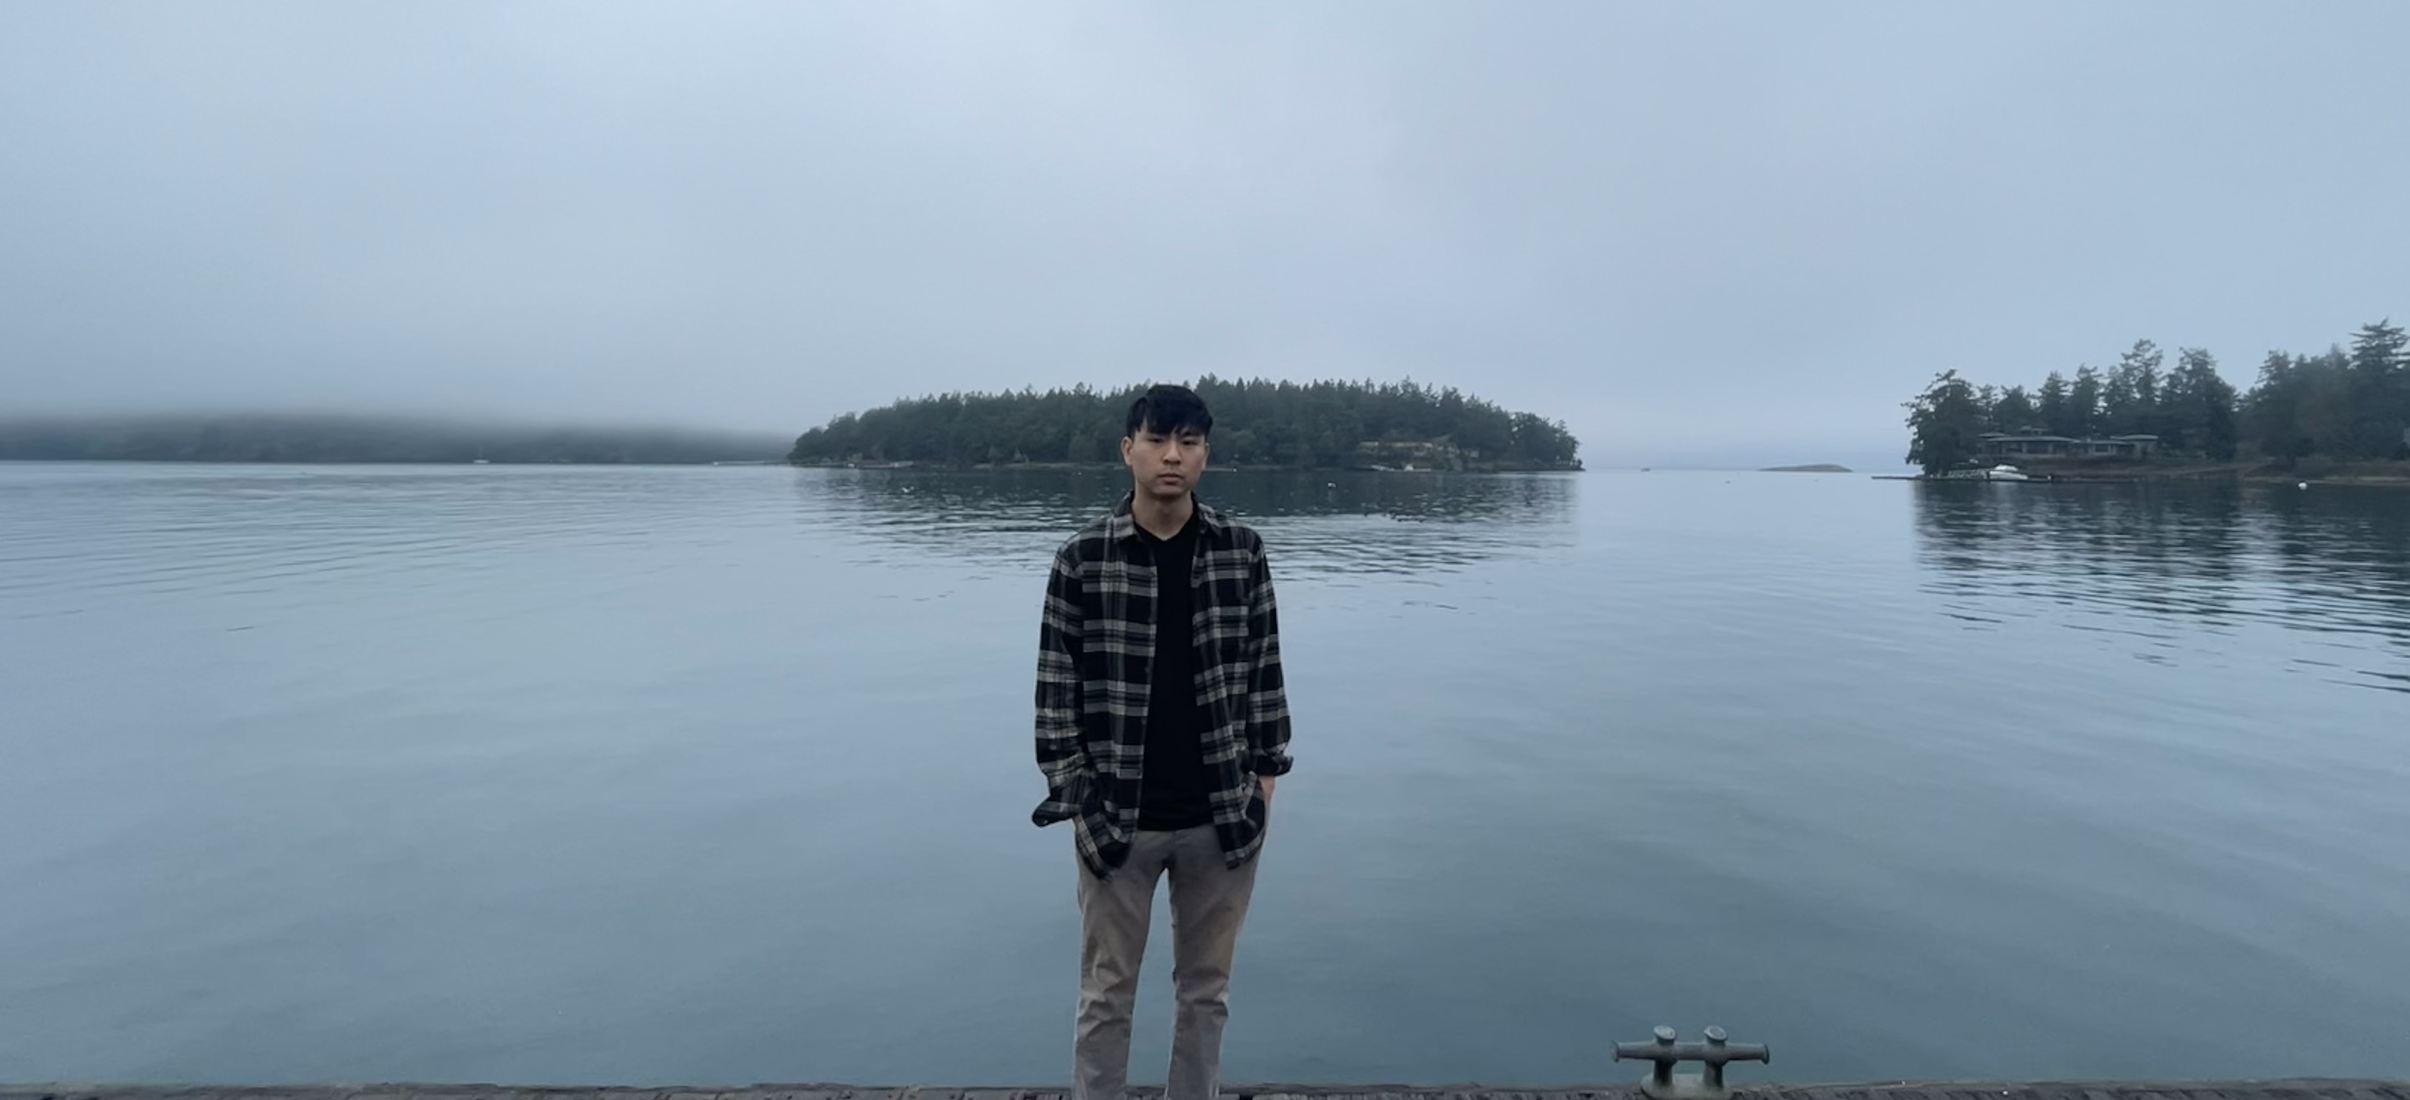
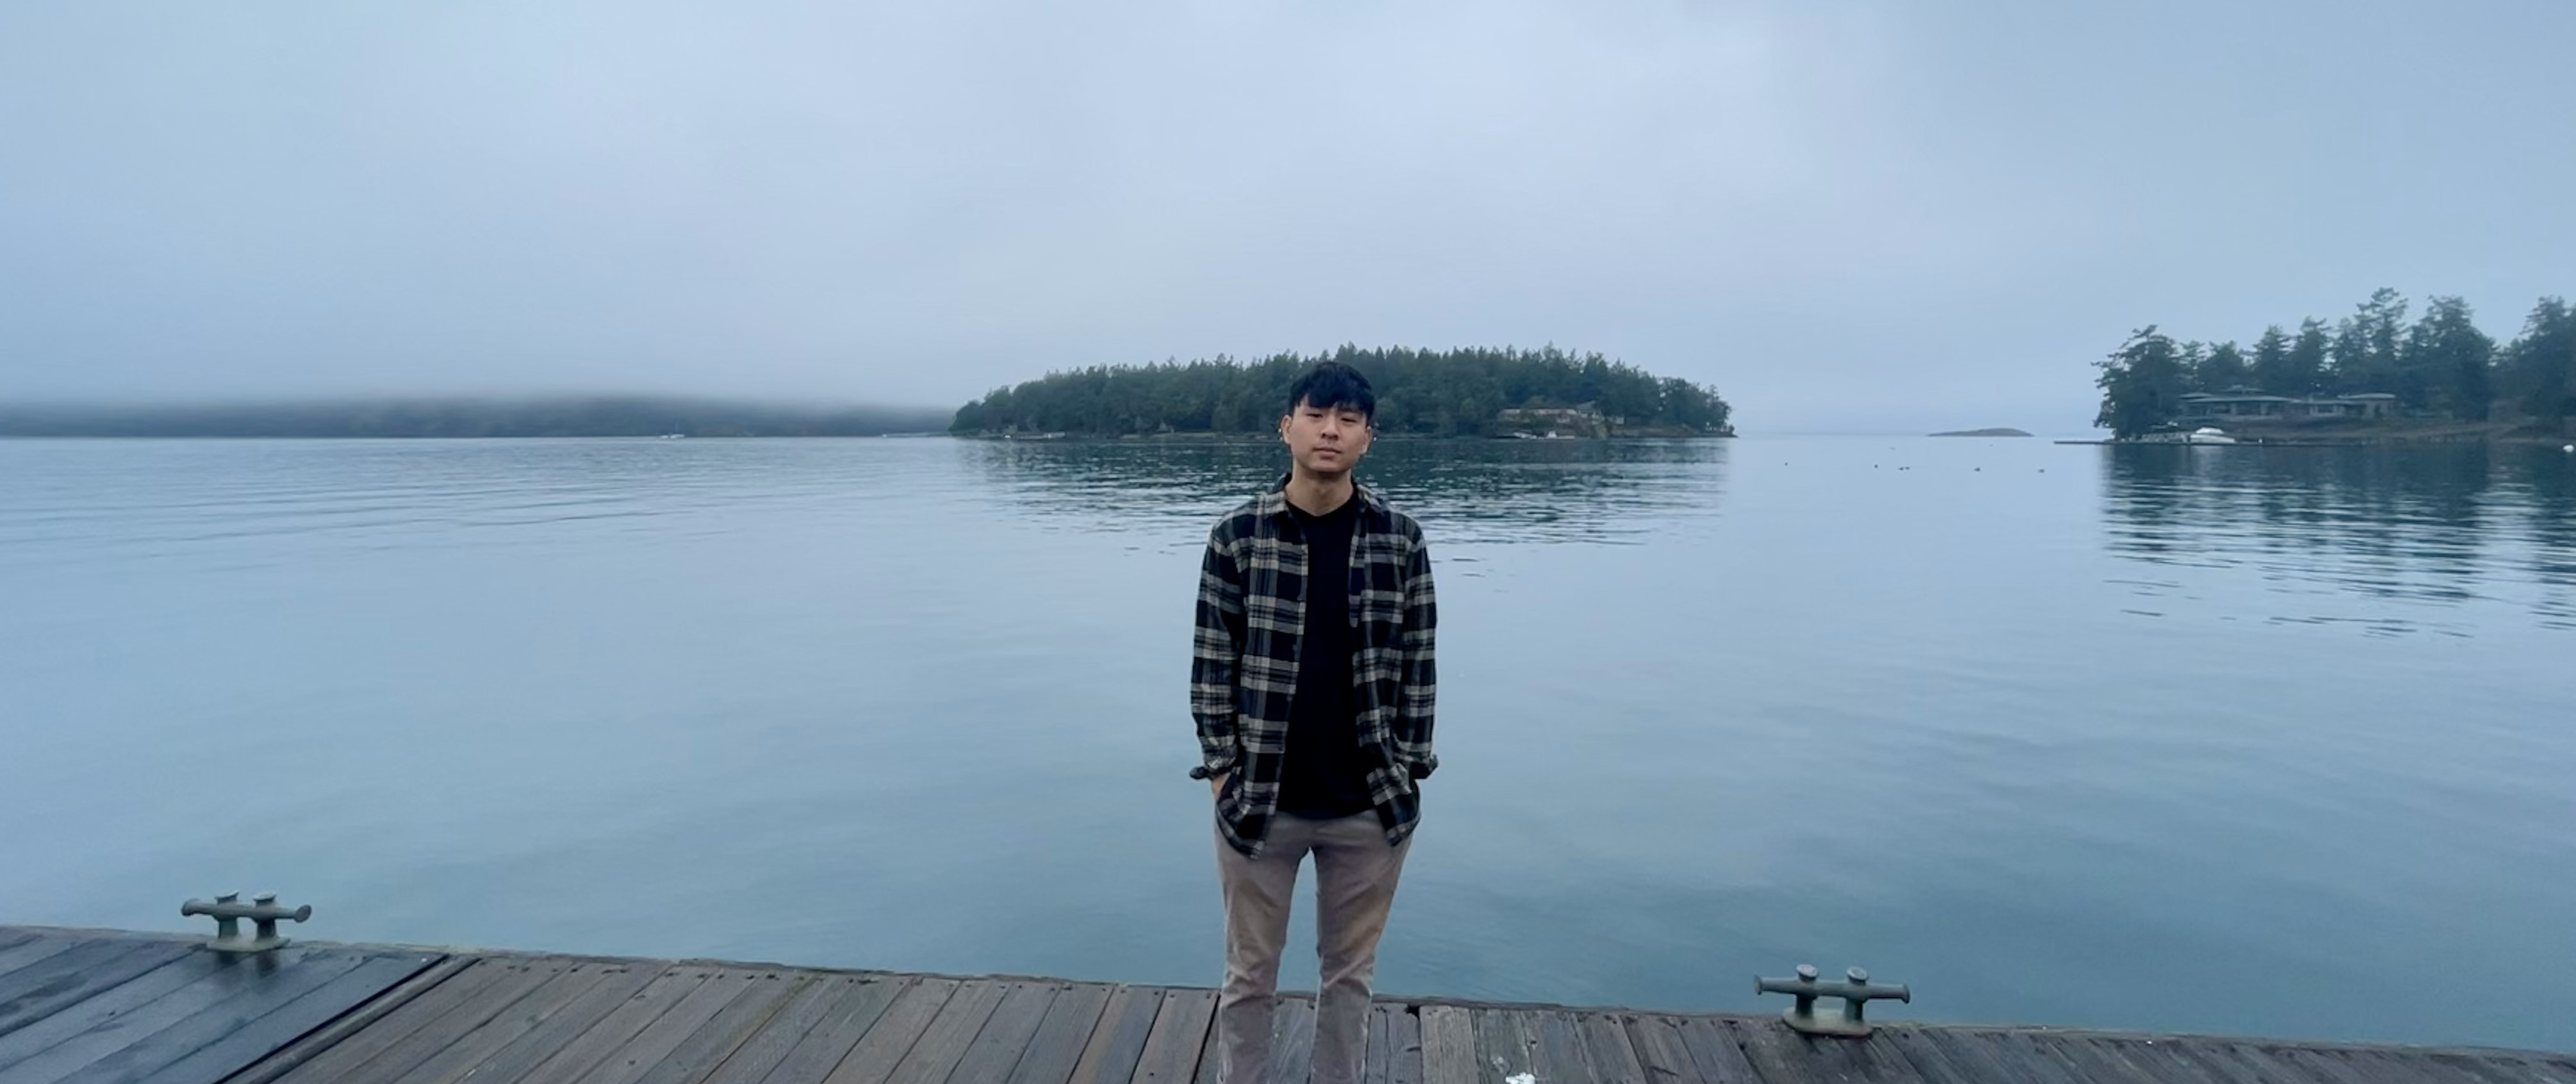
asda

diff --git a/index.md b/index.md
@@ -1,6 +1,6 @@
 ---
 title:
-feature_image: assets/chris1.jpg
+feature_image: assets/chris.jpg
 excerpt: "Homepage"
 aside: true
 ---
